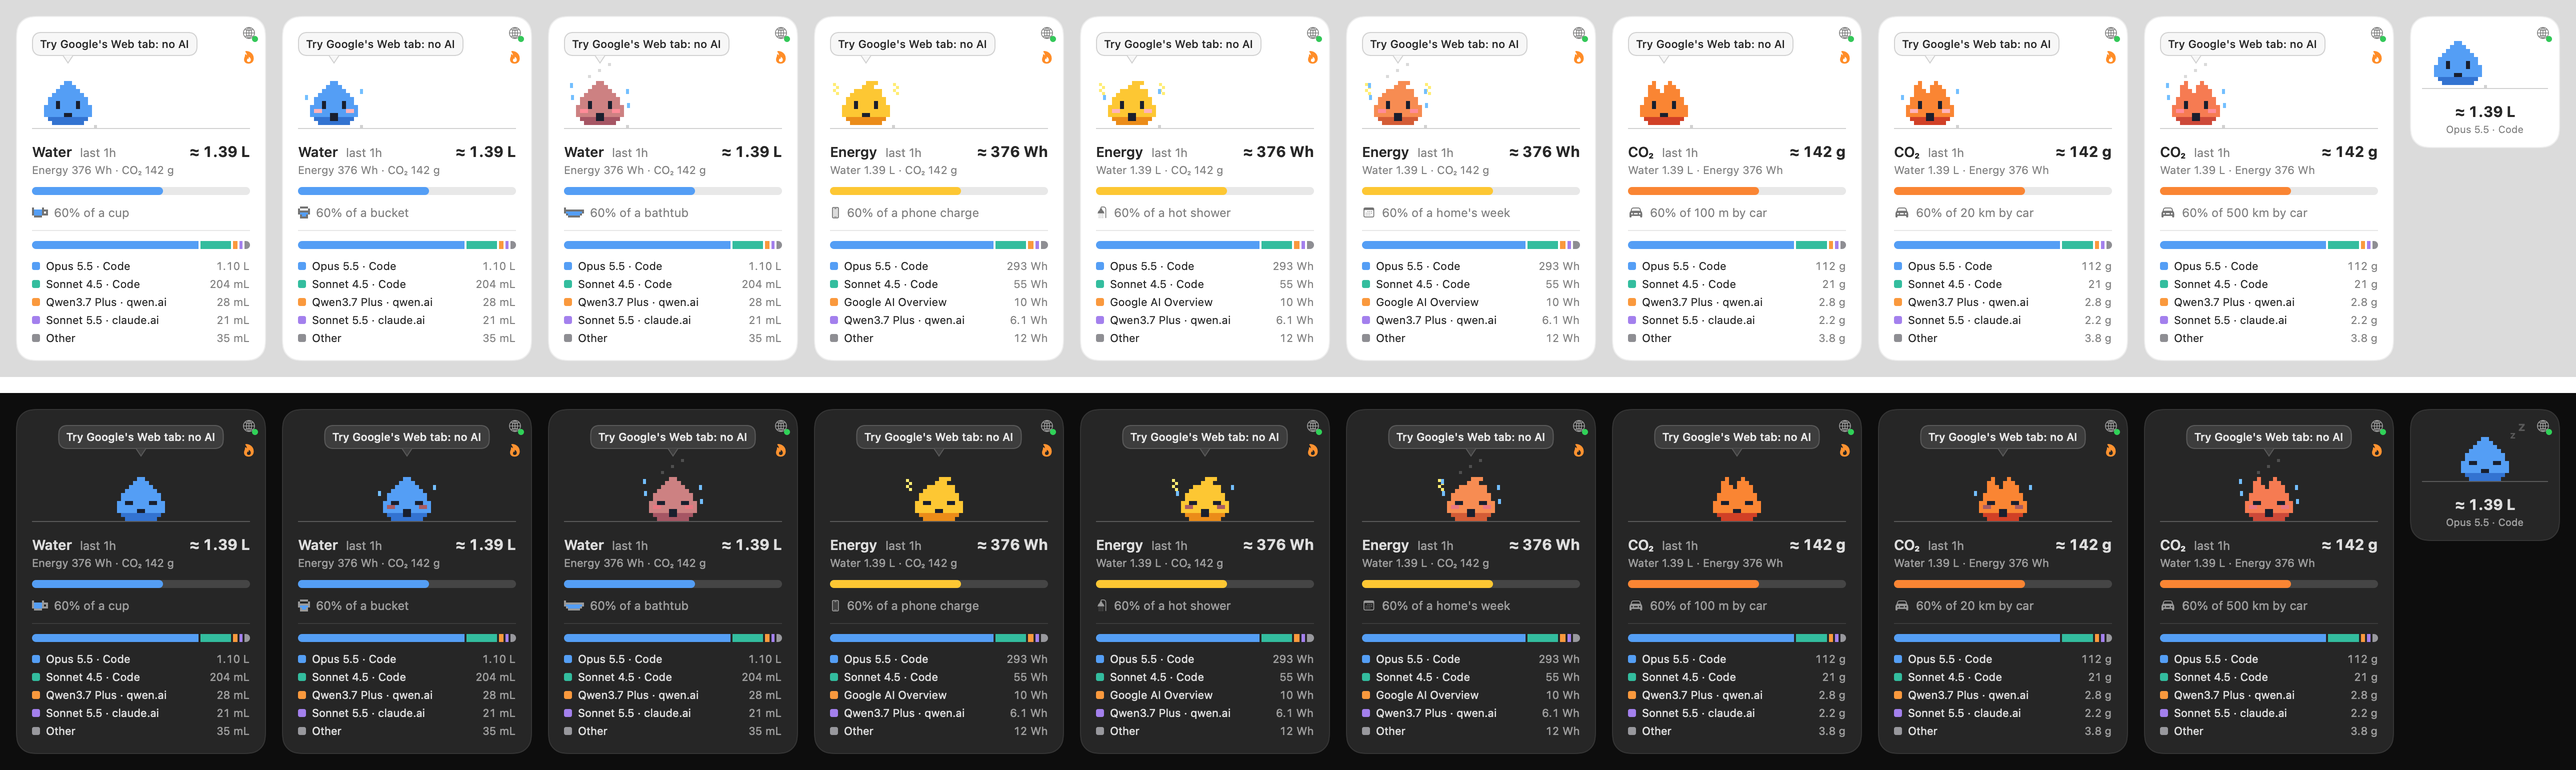
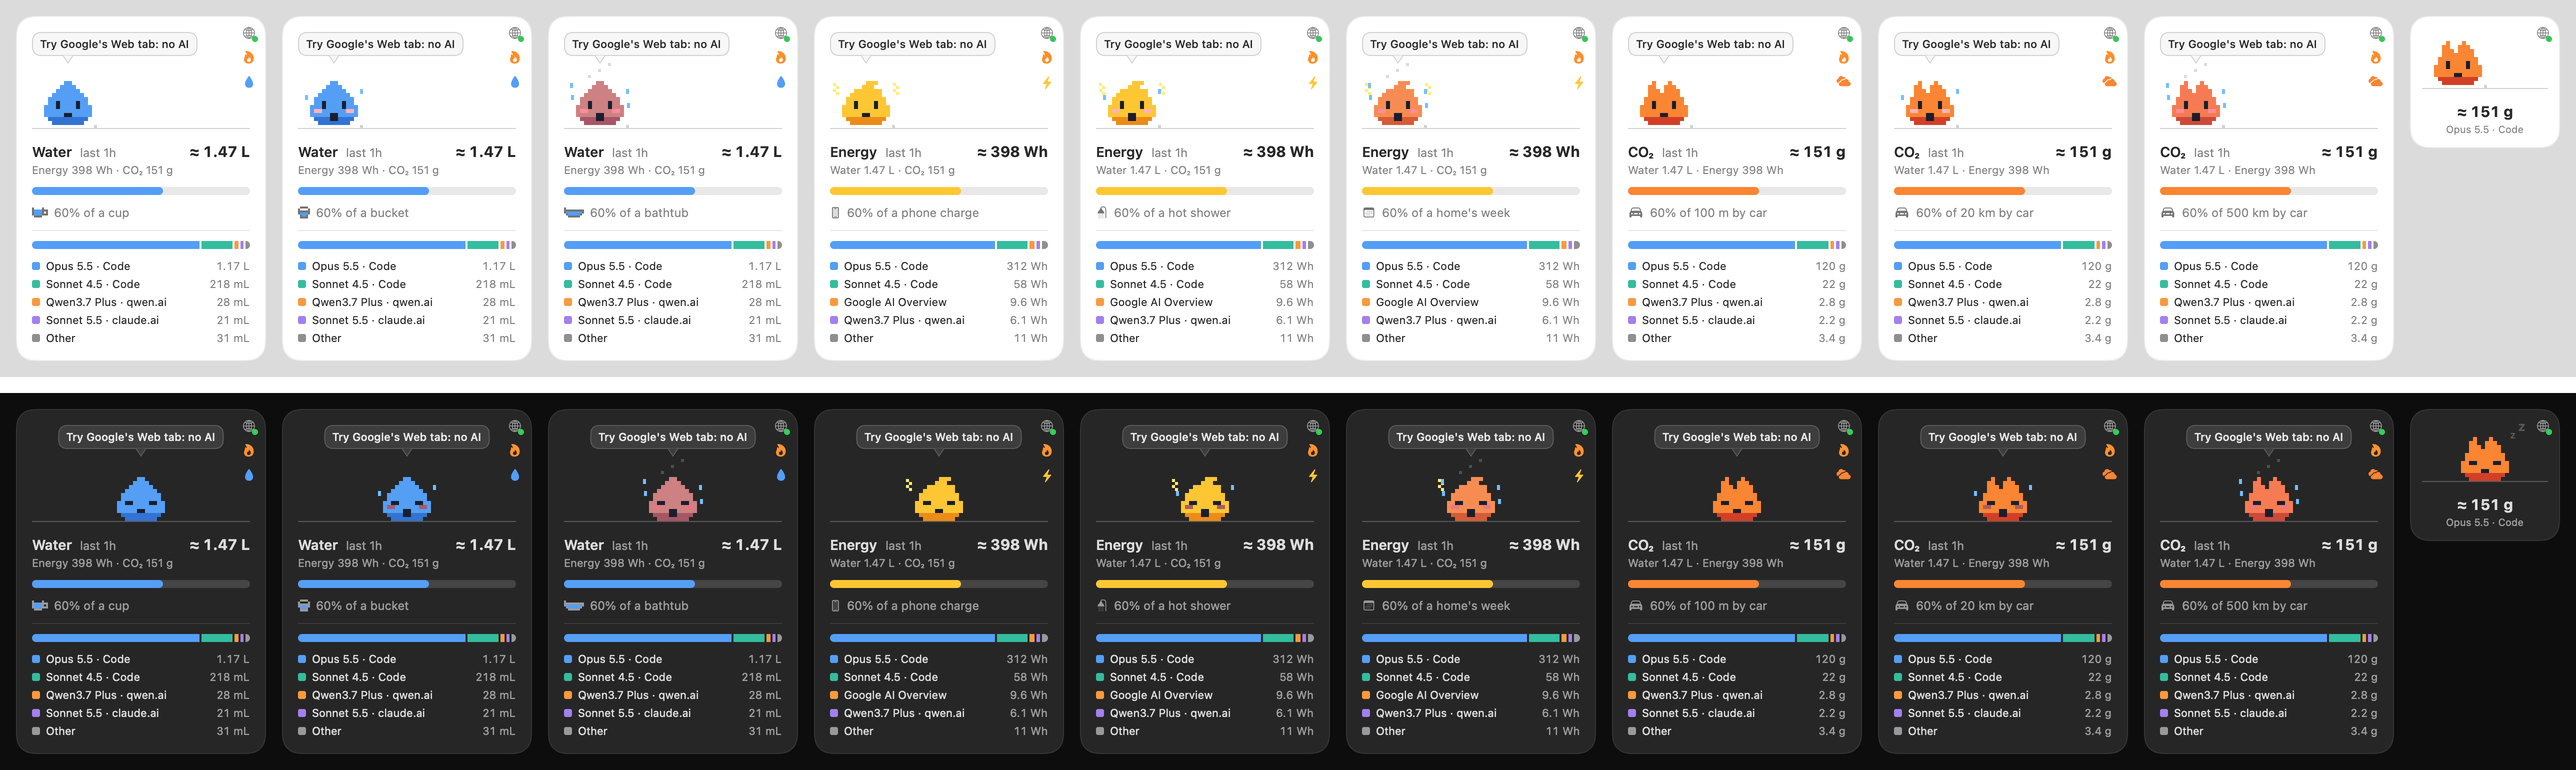
Switch metrics from the card: a button under the flame
A third corner button shows the current metric's icon in its color and
switches water -> energy -> CO2 on click. Tracky's pacing now stays left
of the taller icon column.

diff --git a/Sources/main.swift b/Sources/main.swift
@@ -215,7 +215,7 @@ struct Scene: View {
         let period = 40 - heat * 5   // paces faster as it heats up
         let phase = Double(tick % period) / Double(period)
         let x = angry ? (size.width - w) / 2 + (tick % 2 == 0 ? -2 : 2)
-            : asleep ? (size.width - w) / 2 : 12 + (size.width - w - 24) * (0.5 - 0.5 * cos(phase * 2 * .pi))
+            : asleep ? (size.width - w) / 2 : 12 + (size.width - w - 24 - rightMargin) * (0.5 - 0.5 * cos(phase * 2 * .pi))
         let y = groundY - h - (!asleep && !angry && tick % 2 == 0 ? 3 : 0)
         func dot(_ dx: CGFloat, _ dy: CGFloat, _ c: Color, _ s: CGFloat = 3, _ t: CGFloat = 3) {
             ctx.fill(Path(CGRect(x: x + dx, y: y + dy, width: s, height: t)), with: .color(c))
@@ -389,6 +389,15 @@ struct Companion: View {
                     }
                     .buttonStyle(.plain)
                     .help("Roast me")
+                    // Switch what Tracky tracks: water → energy → CO₂.
+                    let next = Metric.allCases[(Metric.allCases.firstIndex(of: metric)! + 1) % Metric.allCases.count]
+                    Button { store.metric = next } label: {
+                        Image(systemName: metric.symbol).font(.system(size: 12))
+                            .foregroundStyle(Color(red: metric.tint.0, green: metric.tint.1, blue: metric.tint.2))
+                            .padding(.horizontal, 10).padding(.bottom, 10).contentShape(Rectangle())
+                    }
+                    .buttonStyle(.plain)
+                    .help("Tracking \(metric.noun) · click for \(next.noun)")
                 }
             }
         }

diff --git a/README.md b/README.md
@@ -4,7 +4,7 @@ A small pixel companion that lives on your Mac and shows what your AI use costs,
 
 ![Tracky as a drop (water), a spark (energy) and a little fire (CO₂), cool, hot and overheated, awake in light mode and asleep in dark mode, with sample usage in the legend](docs/preview.png)
 
-- **Pick what Tracky tracks:** water, energy or CO₂, from *Track* in the menu. Tracky becomes a 💧 drop, a ⚡ spark or a 🔥 little fire, and the meter, the ladder and the roast follow. The other two are reported on the line under the total.
+- **Pick what Tracky tracks:** water, energy or CO₂, with the button under the flame (each click switches to the next) or from *Track* in the menu. Tracky becomes a 💧 drop, a ⚡ spark or a 🔥 little fire, and the meter, the ladder and the roast follow. The other two are reported on the line under the total.
 - **On the desktop:** a card you can drag anywhere. Tracky sleeps when no AI is working and paces and hops while one is. Double-click the card (or use the menu) to switch between the complete card and a minimal one with just Tracky, the total and the model that used the most.
 - **It heats up as you use more.** A bar fills toward the next everyday amount, and each one you pass makes Tracky hotter: happy, blushing, sweating, flushed and panting, steaming, then overheated and red.
 
